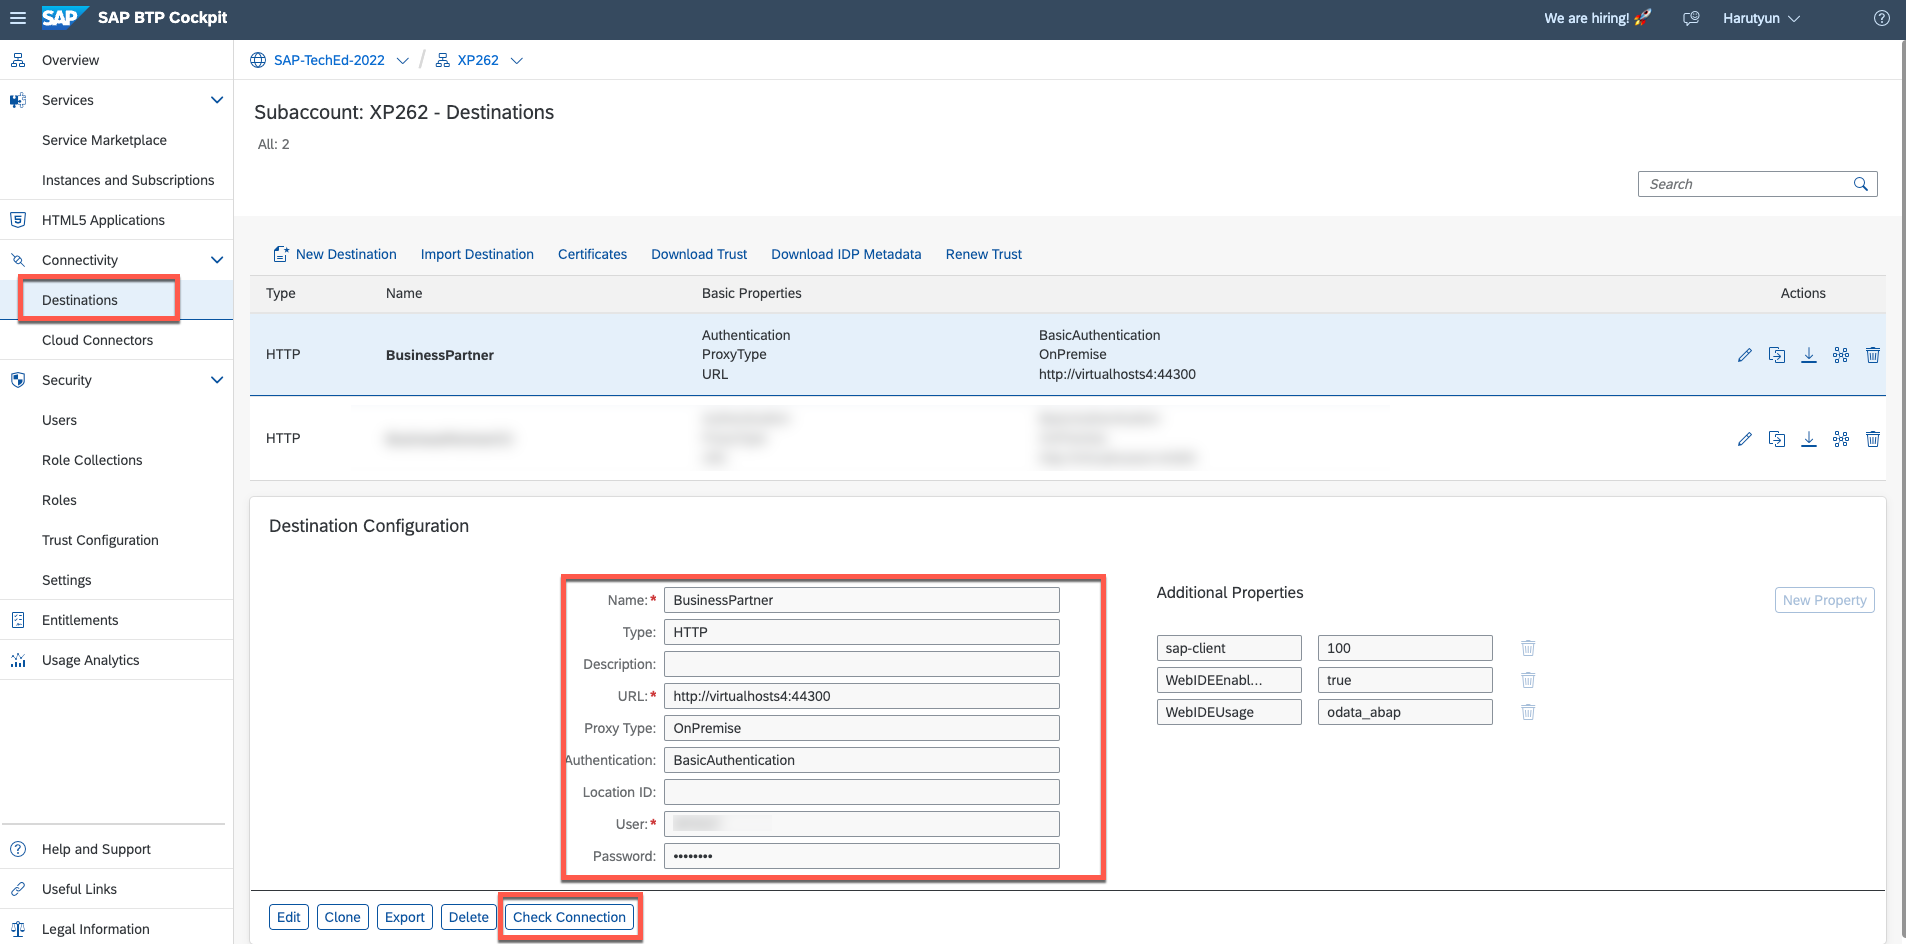
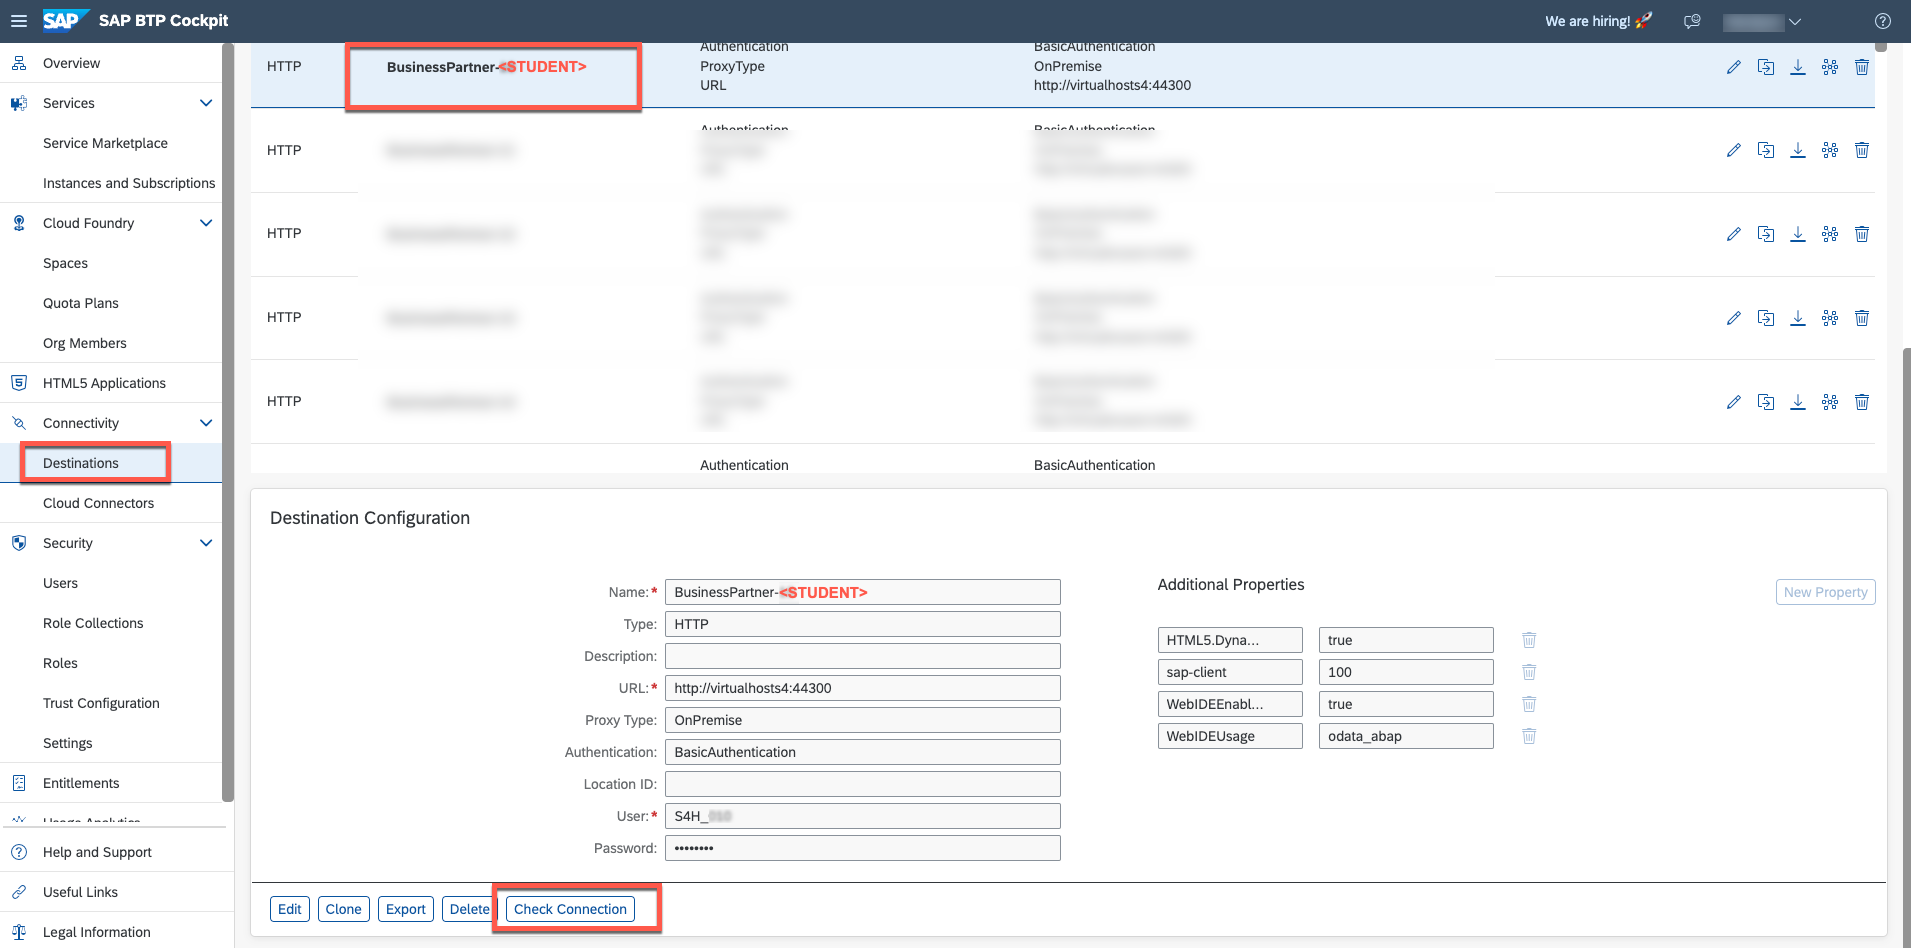
ec4.1

diff --git a/exercises/ex4/README.md b/exercises/ex4/README.md
@@ -35,9 +35,10 @@ For more details about supported hyperscalers and services please see the SAP Pr
 Please take a look at the following [blog](https://blogs.sap.com/2022/07/07/btp-private-linky-swear-with-azure-running-cloud-connector-and-sap-private-link-side-by-side/) post if you are interested in comparing the two approaches.
 
 
-## Exercise 4.1 SAP Cloud Connector
+## Exercise 4.1 Connectivity with SAP Cloud Connector
 By default, the application in this exercise is configured to connect via Cloud Connector. If you are interested in detailed configuration steps, you can check following [tutorial](https://developers.sap.com/tutorials/btp-app-ext-service-cloud-connector.html).
 1. To make sure that the Cloud Connector is up and running you can open **Cloud Connectors** in the **Connectivity** section of **SAP BTP Cockpit**. 
+   
    You will find there the exposed Back-End systems with the required Virtual hosts information. The virtual host is a mask to hide the real system hostname, which is configured in Cloud Connector. In this example, the virtual host is: *virtualhosts4:44300* 
    
    ![Cloud Connector](./images/cc-1.png)
@@ -45,15 +46,52 @@ By default, the application in this exercise is configured to connect via Cloud 
    This virtual host is used for defining the so-called Destination which is part of SAP BTP connectivity service. It contains the connection details for the remote communication of an application. In this case SAP S/4HANA system.
 
 2. Now you can navigate to **Desinations** tab in the **Connectivity** section of **SAP BTP Cockpit**. 
-   You will find a destination called **"BusinessPartner"** which contains the details of remote communication. The virtual host from previous step is defined as URL and *OnPremise* proxy type is selected as a connectivity option.
+   
+   You will find a destination called **"BusinessPartner-\<STUDENT>"** which contains the details of remote communication. The virtual host from the previous step is defined as a URL and _OnPremise_ proxy type is selected as a connectivity option.
    You can click on **"Check Connection"** to make sure that the communication to the S/4HANA system is working properly.
    
    ![Cloud Connector](./images/cc-2.png)
 
-3. Run the application and check the connection details in Application Log
+3. Run the application and check the connection details in Application Log.
+   
+   Go to **"HTML5 Applications"** and open the application with your student number. e.g. **techedbusinesspartners\<STUDENT>**
 
-## Exercise 4.2 SAP Private Link service
+   ![HTML5 App](./images/cc-3.png)
+
+   To trigger an API call, select one of the business partners from the list and **block** or **unblock** it.
+
+   ![Block/Unblock](./images/cc-4.png)
+
+   Now you can go to the Application Logging dashboard to check the connectivity type.
+
+   Application Logging Dashboard you can either via this [link](https://logs.cf.us20.hana.ondemand.com/app/dashboards#/view/Overview?_g=(filters:!(),refreshInterval:(pause:!t,value:0),time:(from:now-15m,to:now))&_a=(description:'(default)%20%20Overview%20and%20some%20basic%20KPIs%20regarding%20failures,%20log%20counts,%20etc.',filters:!(),fullScreenMode:!f,options:(darkTheme:!f,useMargins:!f),query:(language:kuery,query:''),timeRestore:!f,title:Overview,viewMode:view)) or by navigating to the application instance of Cloud Foundry space.
+
+   Open the Space and search for the application with your student number **"BPVerification-srv-\<STUDENT>"** and open it.
+
+    ![CF Space](./images/cc-5.png)
+    ![Search app](./images/cc-6.png)
+
+    Over there you can fine the link to open the **Kibana Dashboard**
+
+    ![Kibana](./images/cc-7.png)
+
+    Once you opened the application logging dashboard, open the **Requests and Logs** tab and set following filters to find the right log entry.
+
+   | Field          | Operator | Value                           |
+   |----------------|----------|---------------------------------|
+   | component_name | is       | BPVerification-srv- < STUDENT > |
+   | msg            | is       | ProxyType                       |
+
+   ![Kibana](./images/cc-8.png)
+   ![Kibana filter](./images/cc-9.png)
+
+   After setting the filters you will find the latest API call and see that **ProxyType** is **OnPremise**, which means the connectivity happened via Cloud Connector.
+
+   ![Kibana ProxyType](./images/cc-10.png)
+
+## Exercise 4.2 Connectivity with SAP Private Link service
     Check the connectivity and application log
+    
 
 ## Summary
 
